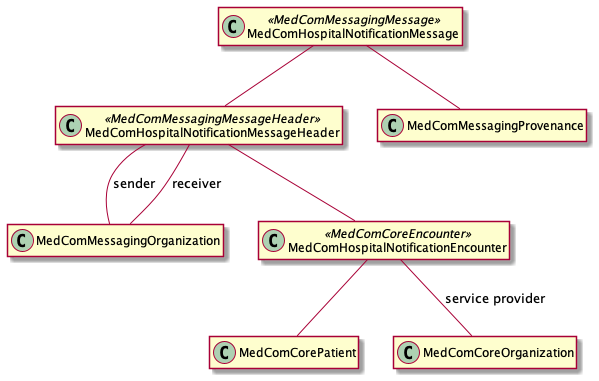
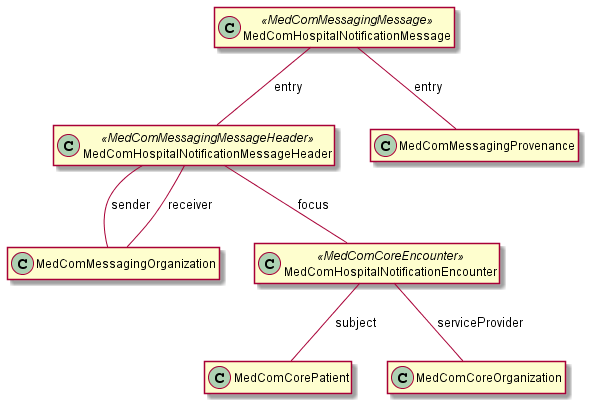
Updated all UML figures
#164
Updated all UML figures in the puml-folder and image-folder

diff --git a/input/pagecontent/StructureDefinition-medcom-careCommunication-communication-intro.md b/input/pagecontent/StructureDefinition-medcom-careCommunication-communication-intro.md
@@ -1,6 +1,6 @@
 ### Scope and usage 
-This profile is used as the Communication resource for the MedCom CareCommunication message. The MedComCareCommunicationCommunication contains (beside references as shown below) the CareCommunication text-message, attachments and authors.  
-<img alt="Care Communication" src="./carecommunication/CareCommunicationCommunication.png" style="float:none; display:block; margin-left:auto; margin-right:auto;" />
+This profile is used as the Communication resource for the MedCom CareCommunication message. Besiden the references shown on the figure below, the MedComCareCommunication profile contains the the possibility to include text-message, attachments and authors.  
+<img alt="CareCommunication" src="./carecommunication/CareCommunicationCommunication.png" style="float:none; display:block; margin-left:auto; margin-right:auto;" />
 
 Please refer to the tab "Snapshot Table(Must support)" below for the definition of the required content of a MedComCareCommunicationMessageHeader.
 

diff --git a/input/pagecontent/StructureDefinition-medcom-careCommunication-messageHeader-intro.md b/input/pagecontent/StructureDefinition-medcom-careCommunication-messageHeader-intro.md
@@ -1,6 +1,6 @@
 ### Scope and usage 
 This profile is used as the MessageHeader resource for the MedCom CareCommunication message. The MedComCareCommunicationMessageHeader contains (beside references as shown below) identifier and code for sending CareCommunication messages.  
-<img alt="Care Communication" src="./carecommunication/CareCommunicationHeaderHeader.png" style="float:none; display:block; margin-left:auto; margin-right:auto;" />
+<img alt="Care Communication" src="./carecommunication/CareCommunicationMessageHeader.png" style="float:none; display:block; margin-left:auto; margin-right:auto;" />
 
 Please refer to the tab "Snapshot Table(Must support)" below for the definition of the required content of a MedComCareCommunicationMessageHeader.
 

diff --git a/input/pagecontent/StructureDefinition-medcom-core-patient-intro.md b/input/pagecontent/StructureDefinition-medcom-core-patient-intro.md
@@ -1,6 +1,6 @@
 ### Scope and usage 
 
-This profile describes the MedComCorePatient. The MedComCorePatient shall be used as Patient ressource in all MedCom FHIR Messages.
+This profile describes the MedComCorePatient. The MedComCorePatient shall be used as Patient resource in all MedCom FHIR Messages.
 The MedComCorePatient is based on the DkCorePatient resource and is narrowed further down to reflect that the family name shall be present and the patient's managing organisation must be included in the message.
 <img alt="MedComCorePatient" src="./MedComCorePatient.png" style="float:none; display:block; margin-left:auto; margin-right:auto;" />
 

diff --git a/input/pagecontent/index.md b/input/pagecontent/index.md
@@ -89,6 +89,7 @@ The care communication message is a message sent between danish healthcare organ
 The following diagram depicts the structure of the care communication message.
 
 <img alt="Care Communication" src="./carecommunication/CareCommunication.png" style="float:none; display:block; margin-left:auto; margin-right:auto;" />
+<img alt="Test" src="./carecommunication/CareCommunication.png" style="float:none; display:block; margin-left:auto; margin-right:auto;" />
 
 The care communication message follows the general message structure described above. The following sections describe the overall purpose of each profiled resource.
 
